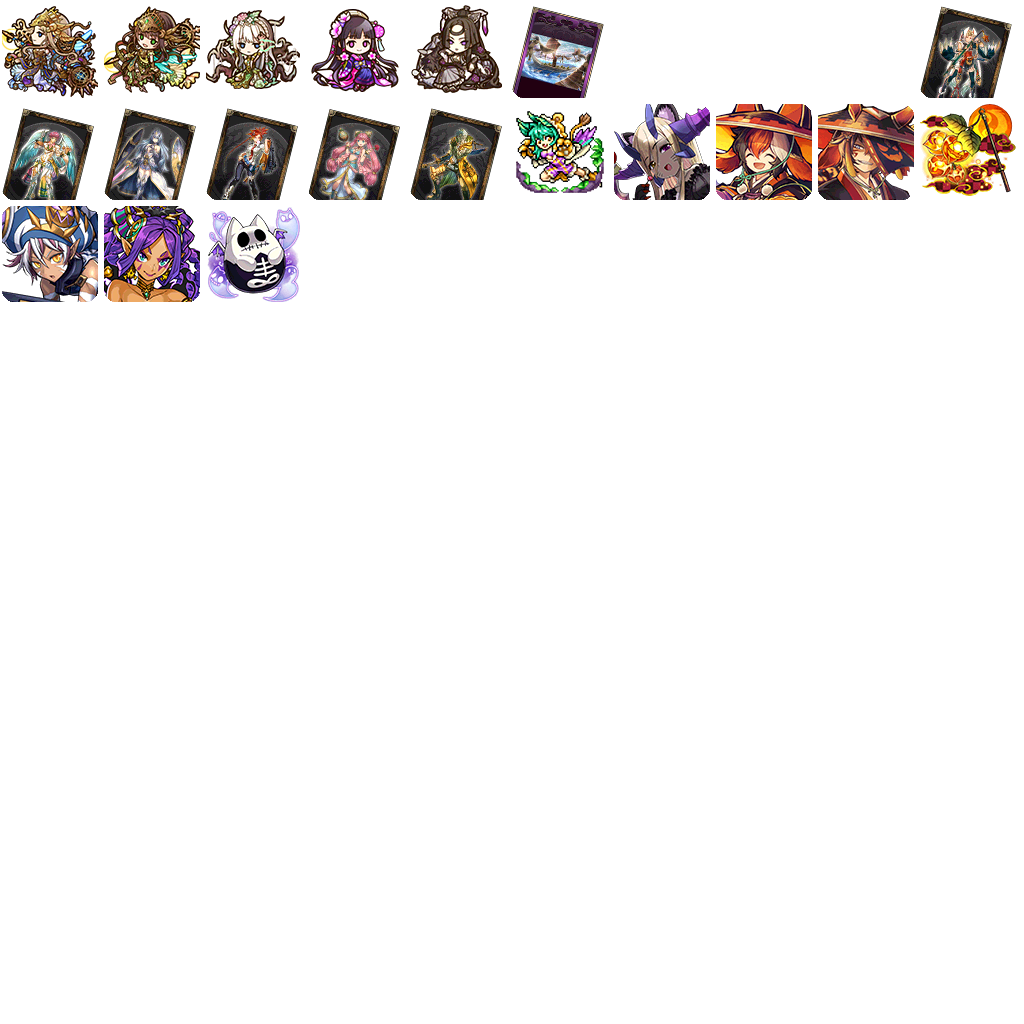
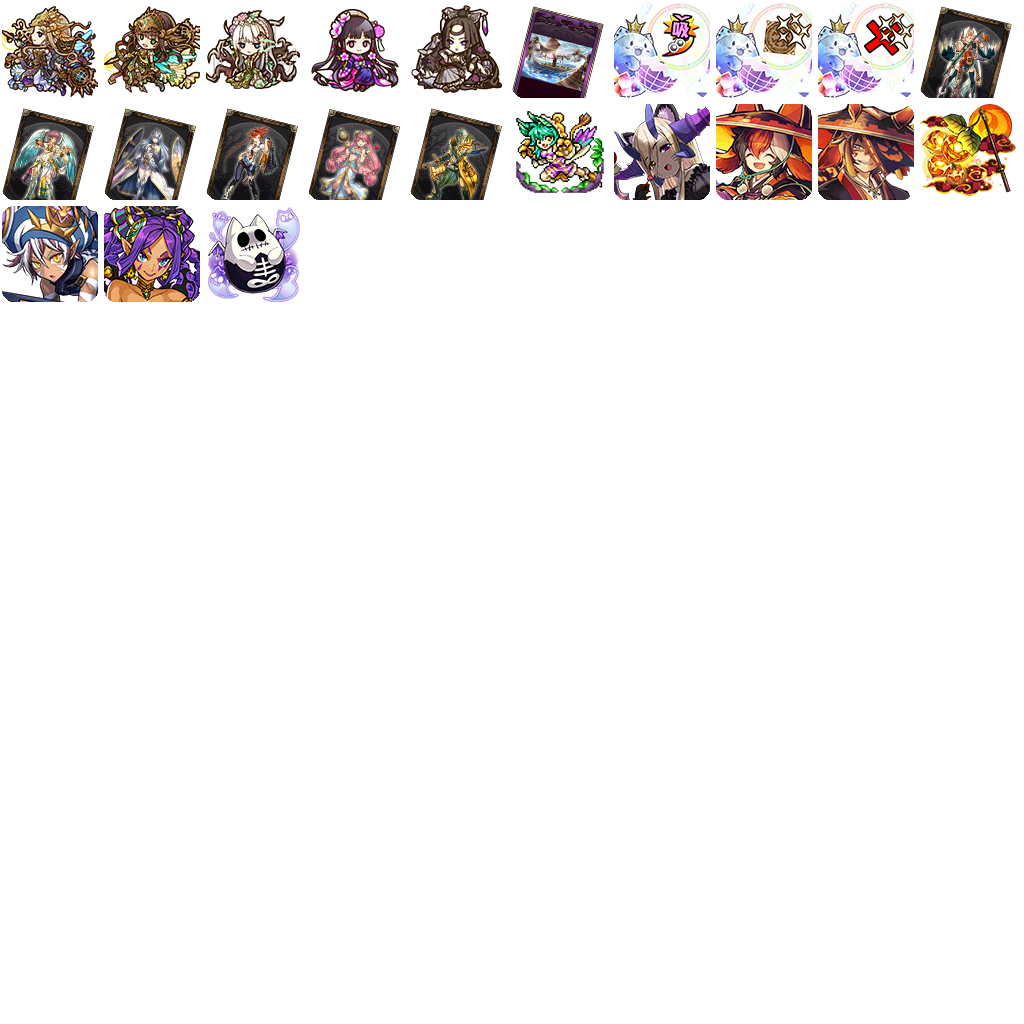
整理正确的潜觉顺序

Changed region(s): [[0.5938, 0.0, 0.9062, 0.0938]]

diff --git a/languages/en.css b/languages/en.css
@@ -1,4 +1,5 @@
 @charset "utf-8";
+@import "icon-en.css";
 .status.loading-check-version .text::before{
 	content: "Checking the data version, please wait...";
 }
@@ -354,26 +355,4 @@
 }
 .control-div .search-close::before{
 	content: "Close Search Panel";
-}
-
-/*Some icons, style different from the Japanese version*/
-.awoken-icon[data-awoken-icon='40'],
-.awoken-icon[data-awoken-icon='46'],
-.awoken-icon[data-awoken-icon='47'],
-.awoken-icon[data-awoken-icon='48'],
-.type-icon[data-type-icon='12'],
-.type-icon[data-type-icon='9']
-{
-	background-position-x: -32px;
-}
-.latent-icon[data-latent-icon='17']::before,
-.latent-icon[data-latent-icon='37']::before,
-.latent-icon[data-latent-icon='41']::before
-{
-	background-position-x: -252px;
-}
-.badge[data-badge-icon='0']::before,
-.badge[data-badge-icon='2']::before
-{
-	background-position-x: -36px;
 }

diff --git a/languages/ko.css b/languages/ko.css
@@ -1,4 +1,5 @@
 @charset "utf-8";
+@import "icon-en.css";
 .status.loading-check-version .text::before{
 	content: "데이터 버전을 확인 합니다.";
 }
@@ -343,25 +344,4 @@
 }
 .control-div .search-close::before{
 	content: "찾기 닫기";
-}
-/*Some icons, style different from the Japanese version*/
-.awoken-icon[data-awoken-icon='40'],
-.awoken-icon[data-awoken-icon='46'],
-.awoken-icon[data-awoken-icon='47'],
-.awoken-icon[data-awoken-icon='48'],
-.type-icon[data-type-icon='12'],
-.type-icon[data-type-icon='9']
-{
-	background-position-x: -32px;
-}
-.latent-icon[data-latent-icon='17']::before,
-.latent-icon[data-latent-icon='37']::before,
-.latent-icon[data-latent-icon='41']::before
-{
-	background-position-x: -252px;
-}
-.badge[data-badge-icon='0']::before,
-.badge[data-badge-icon='2']::before
-{
-	background-position-x: -36px;
 }

diff --git a/triple.html b/triple.html
@@ -1472,9 +1472,9 @@ var formation = new Formation(teamsCount,6);
 					<li class="latent-icon" data-latent-icon="36"></li><!--大暗盾-->
 					<li class="latent-icon" data-latent-icon="37"></li><!--6色破无效-->
 					<li class="latent-icon" data-latent-icon="38"></li><!--3色破属吸-->
-					<li class="latent-icon" data-latent-icon="39"></li><!--U解禁消-->
+					<li class="latent-icon" data-latent-icon="39"></li><!--C珠破吸-->
 					<li class="latent-icon" data-latent-icon="40"></li><!--心横解转转-->
-					<li class="latent-icon" data-latent-icon="41"></li><!--C珠破吸-->
+					<li class="latent-icon" data-latent-icon="41"></li><!--U解禁消-->
 				</ul>
 			</div>
 			<div class="setting-row row-mon-skill">

diff --git a/multi.html b/multi.html
@@ -827,9 +827,9 @@ var formation = new Formation(teamsCount,5);
 					<li class="latent-icon" data-latent-icon="36"></li><!--大暗盾-->
 					<li class="latent-icon" data-latent-icon="37"></li><!--6色破无效-->
 					<li class="latent-icon" data-latent-icon="38"></li><!--3色破属吸-->
-					<li class="latent-icon" data-latent-icon="39"></li><!--U解禁消-->
+					<li class="latent-icon" data-latent-icon="39"></li><!--C珠破吸-->
 					<li class="latent-icon" data-latent-icon="40"></li><!--心横解转转-->
-					<li class="latent-icon" data-latent-icon="41"></li><!--C珠破吸-->
+					<li class="latent-icon" data-latent-icon="41"></li><!--U解禁消-->
 				</ul>
 			</div>
 			<div class="setting-row row-mon-skill">

diff --git a/solo.html b/solo.html
@@ -777,9 +777,9 @@ var formation = new Formation(teamsCount,6);
 					<li class="latent-icon" data-latent-icon="36"></li><!--大暗盾-->
 					<li class="latent-icon" data-latent-icon="37"></li><!--6色破无效-->
 					<li class="latent-icon" data-latent-icon="38"></li><!--3色破属吸-->
-					<li class="latent-icon" data-latent-icon="39"></li><!--U解禁消-->
+					<li class="latent-icon" data-latent-icon="39"></li><!--C珠破吸-->
 					<li class="latent-icon" data-latent-icon="40"></li><!--心横解转转-->
-					<li class="latent-icon" data-latent-icon="41"></li><!--C珠破吸-->
+					<li class="latent-icon" data-latent-icon="41"></li><!--U解禁消-->
 				</ul>
 			</div>
 			<div class="setting-row row-mon-skill">

diff --git a/languages/icon-en.css b/languages/icon-en.css
@@ -1,0 +1,22 @@
+@charset "utf-8";
+/*Some icons, style different from the Japanese version*/
+.awoken-icon[data-awoken-icon='40'],
+.awoken-icon[data-awoken-icon='46'],
+.awoken-icon[data-awoken-icon='47'],
+.awoken-icon[data-awoken-icon='48'],
+.type-icon[data-type-icon='12'],
+.type-icon[data-type-icon='9']
+{
+	background-position-x: -32px;
+}
+.latent-icon[data-latent-icon='17']::before,
+.latent-icon[data-latent-icon='37']::before,
+.latent-icon[data-latent-icon='39']::before
+{
+	background-position-x: -252px;
+}
+.badge[data-badge-icon='0']::before,
+.badge[data-badge-icon='2']::before
+{
+	background-position-x: -36px;
+}

diff --git a/style-monsterimages.css b/style-monsterimages.css
@@ -820,13 +820,13 @@
 .latent-icon[data-latent-icon='38']::before{ /*3色破属吸*/
 	background-position-y: calc(-32px * 38);
 }
-.latent-icon[data-latent-icon='39']::before{ /*U解禁消*/
+.latent-icon[data-latent-icon='39']::before{ /*C珠破吸*/
 	background-position-y: calc(-32px * 39);
 }
 .latent-icon[data-latent-icon='40']::before{ /*心横解转转*/
 	background-position-y: calc(-32px * 40);
 }
-.latent-icon[data-latent-icon='41']::before{ /*C珠破吸*/
+.latent-icon[data-latent-icon='41']::before{ /*U解禁消*/
 	background-position-y: calc(-32px * 41);
 }
 

diff --git a/languages/zh-TW.css b/languages/zh-TW.css
@@ -1,4 +1,5 @@
 @charset "utf-8";
+@import "icon-zh.css";
 .status.loading-check-version .text::before{
 	content: "正在檢查数据版本，請稍候……";
 }
@@ -349,15 +350,4 @@
 }
 .control-div .search-close::before{
 	content: "關閉搜索";
-}
-/*Some icons, style different from the Japanese version*/
-.awoken-icon[data-awoken-icon='46'],
-.awoken-icon[data-awoken-icon='47']
-{
-	background-position-x: calc(-32px * 2);
-}
-.badge[data-badge-icon='0']::before,
-.badge[data-badge-icon='14']::before
-{
-	background-position-x: calc(-36px * 2);
 }

diff --git a/languages/zh.css b/languages/zh.css
@@ -1,4 +1,5 @@
 @charset "utf-8";
+@import "icon-zh.css";
 .status.loading-check-version .text::before{
 	content: "正在检查数据版本，请稍候……";
 }
@@ -349,15 +350,4 @@
 }
 .control-div .search-close::before{
 	content: "关闭搜索";
-}
-/*Some icons, style different from the Japanese version*/
-.awoken-icon[data-awoken-icon='46'],
-.awoken-icon[data-awoken-icon='47']
-{
-	background-position-x: calc(-32px * 2);
-}
-.badge[data-badge-icon='0']::before,
-.badge[data-badge-icon='14']::before
-{
-	background-position-x: calc(-36px * 2);
 }

diff --git a/languages/icon-zh.css b/languages/icon-zh.css
@@ -1,0 +1,12 @@
+@charset "utf-8";
+/*Some icons, style different from the Japanese version*/
+.awoken-icon[data-awoken-icon='46'],
+.awoken-icon[data-awoken-icon='47']
+{
+	background-position-x: calc(-32px * 2);
+}
+.badge[data-badge-icon='0']::before,
+.badge[data-badge-icon='14']::before
+{
+	background-position-x: calc(-36px * 2);
+}
